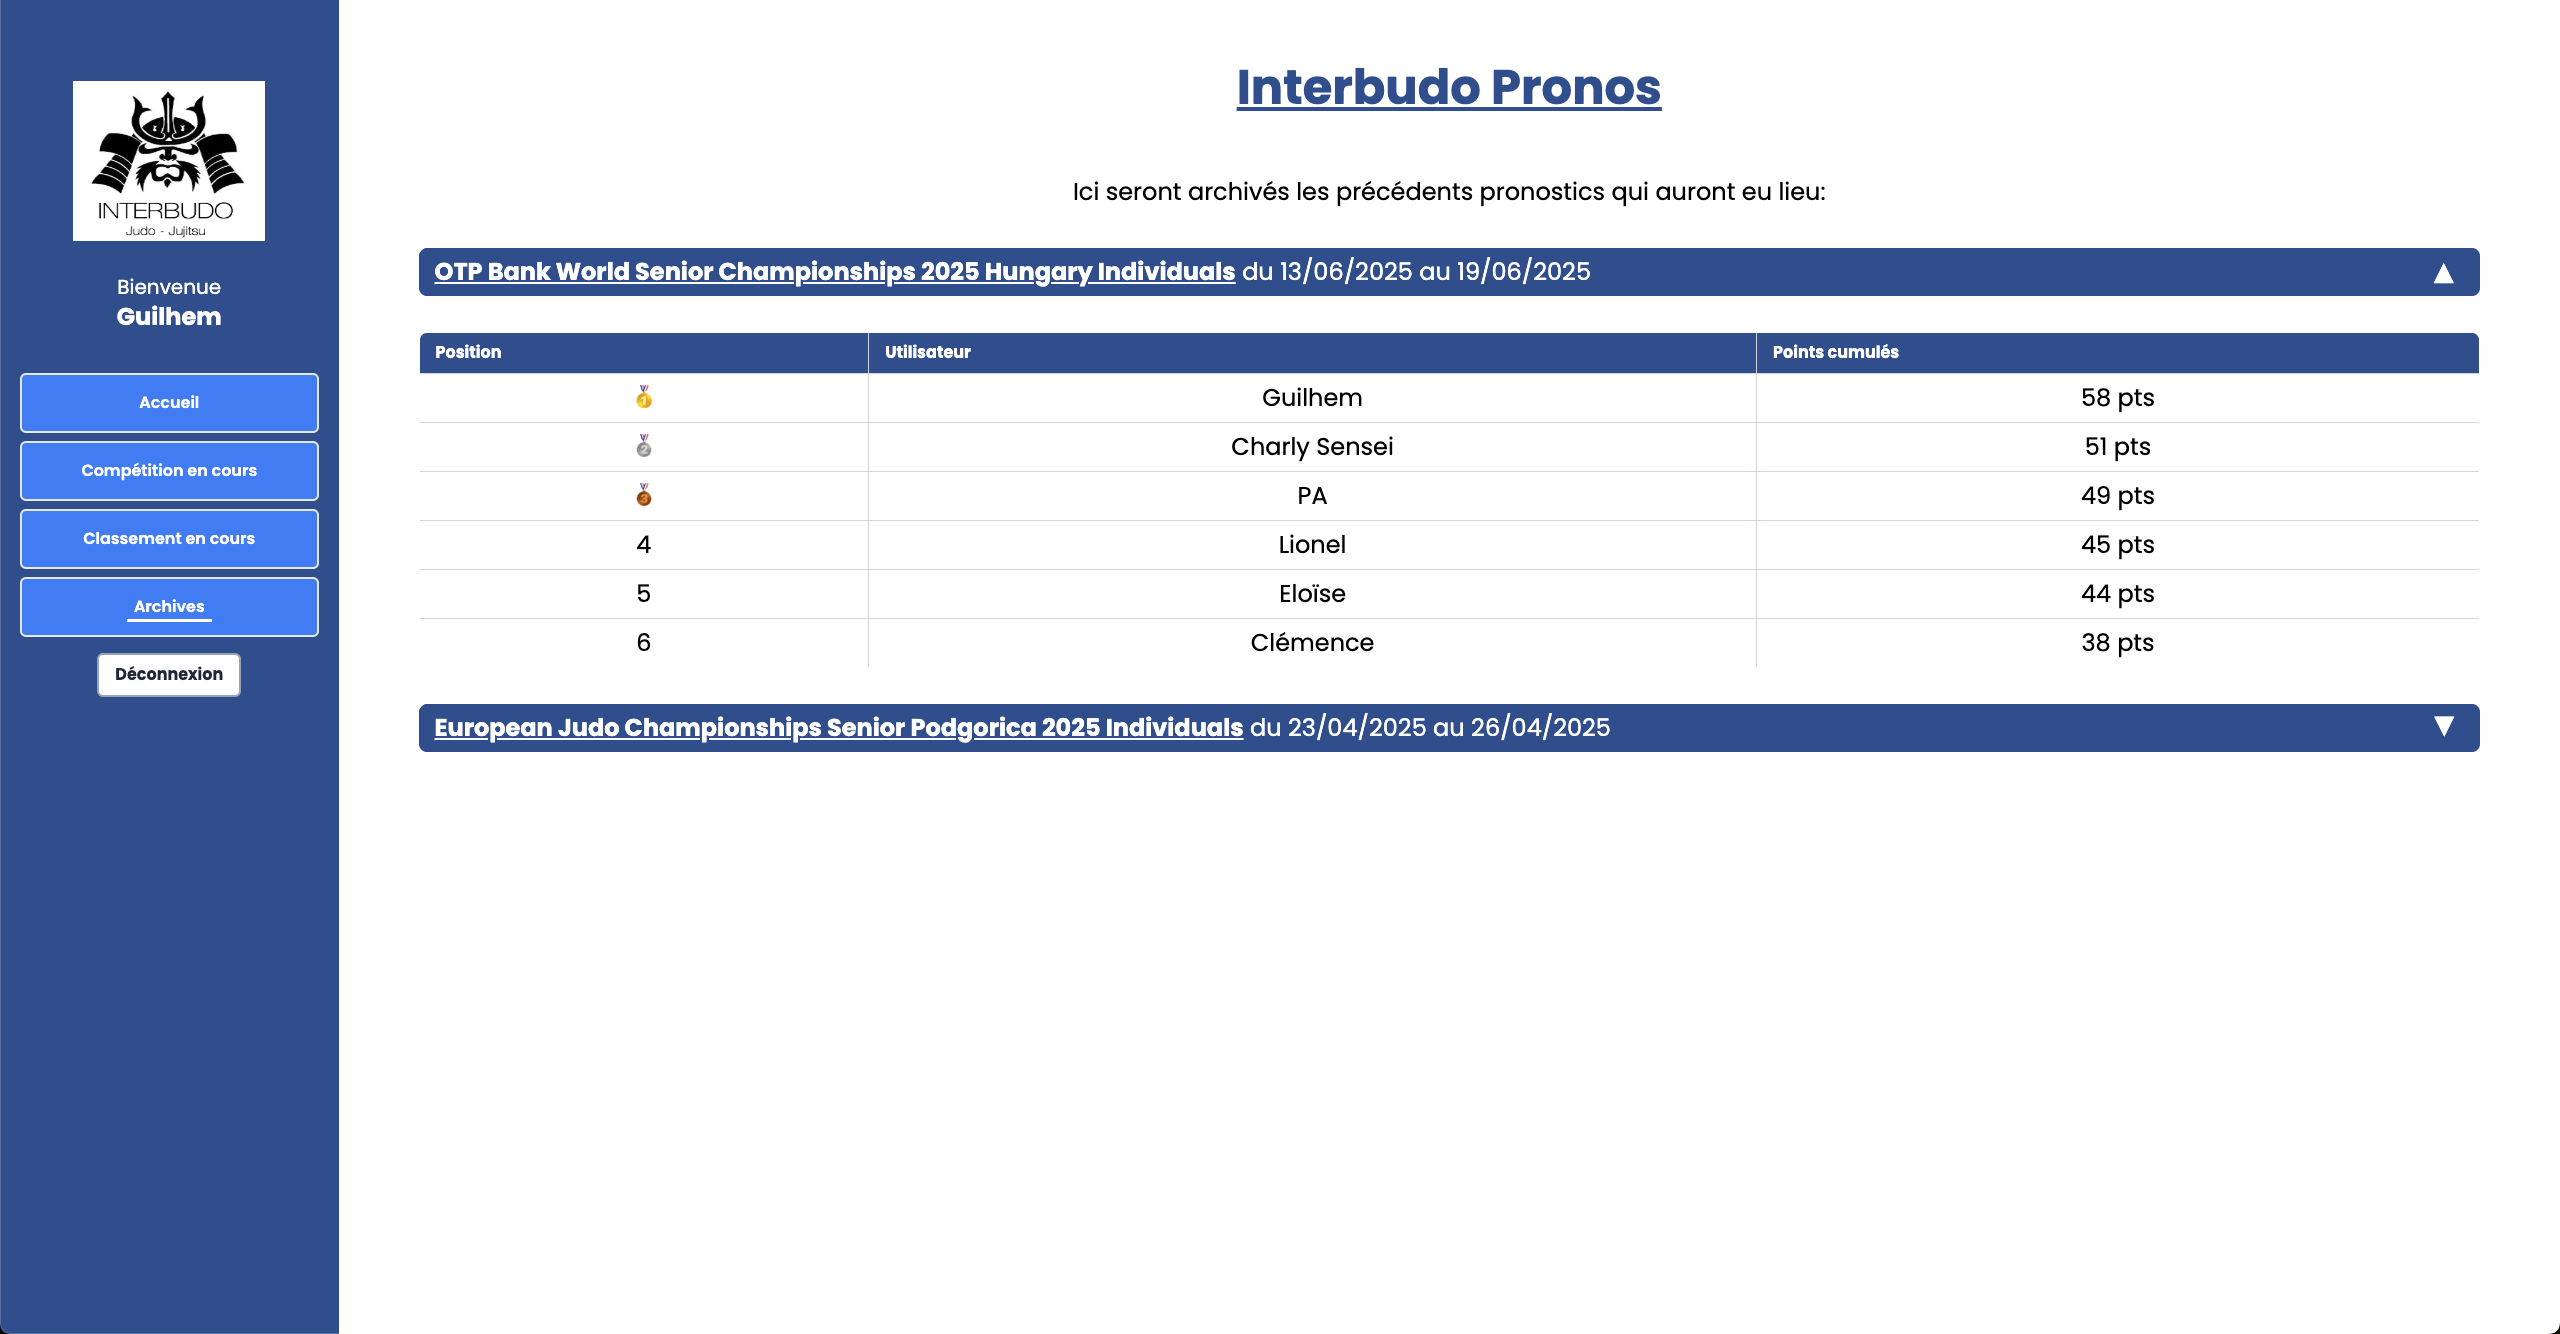
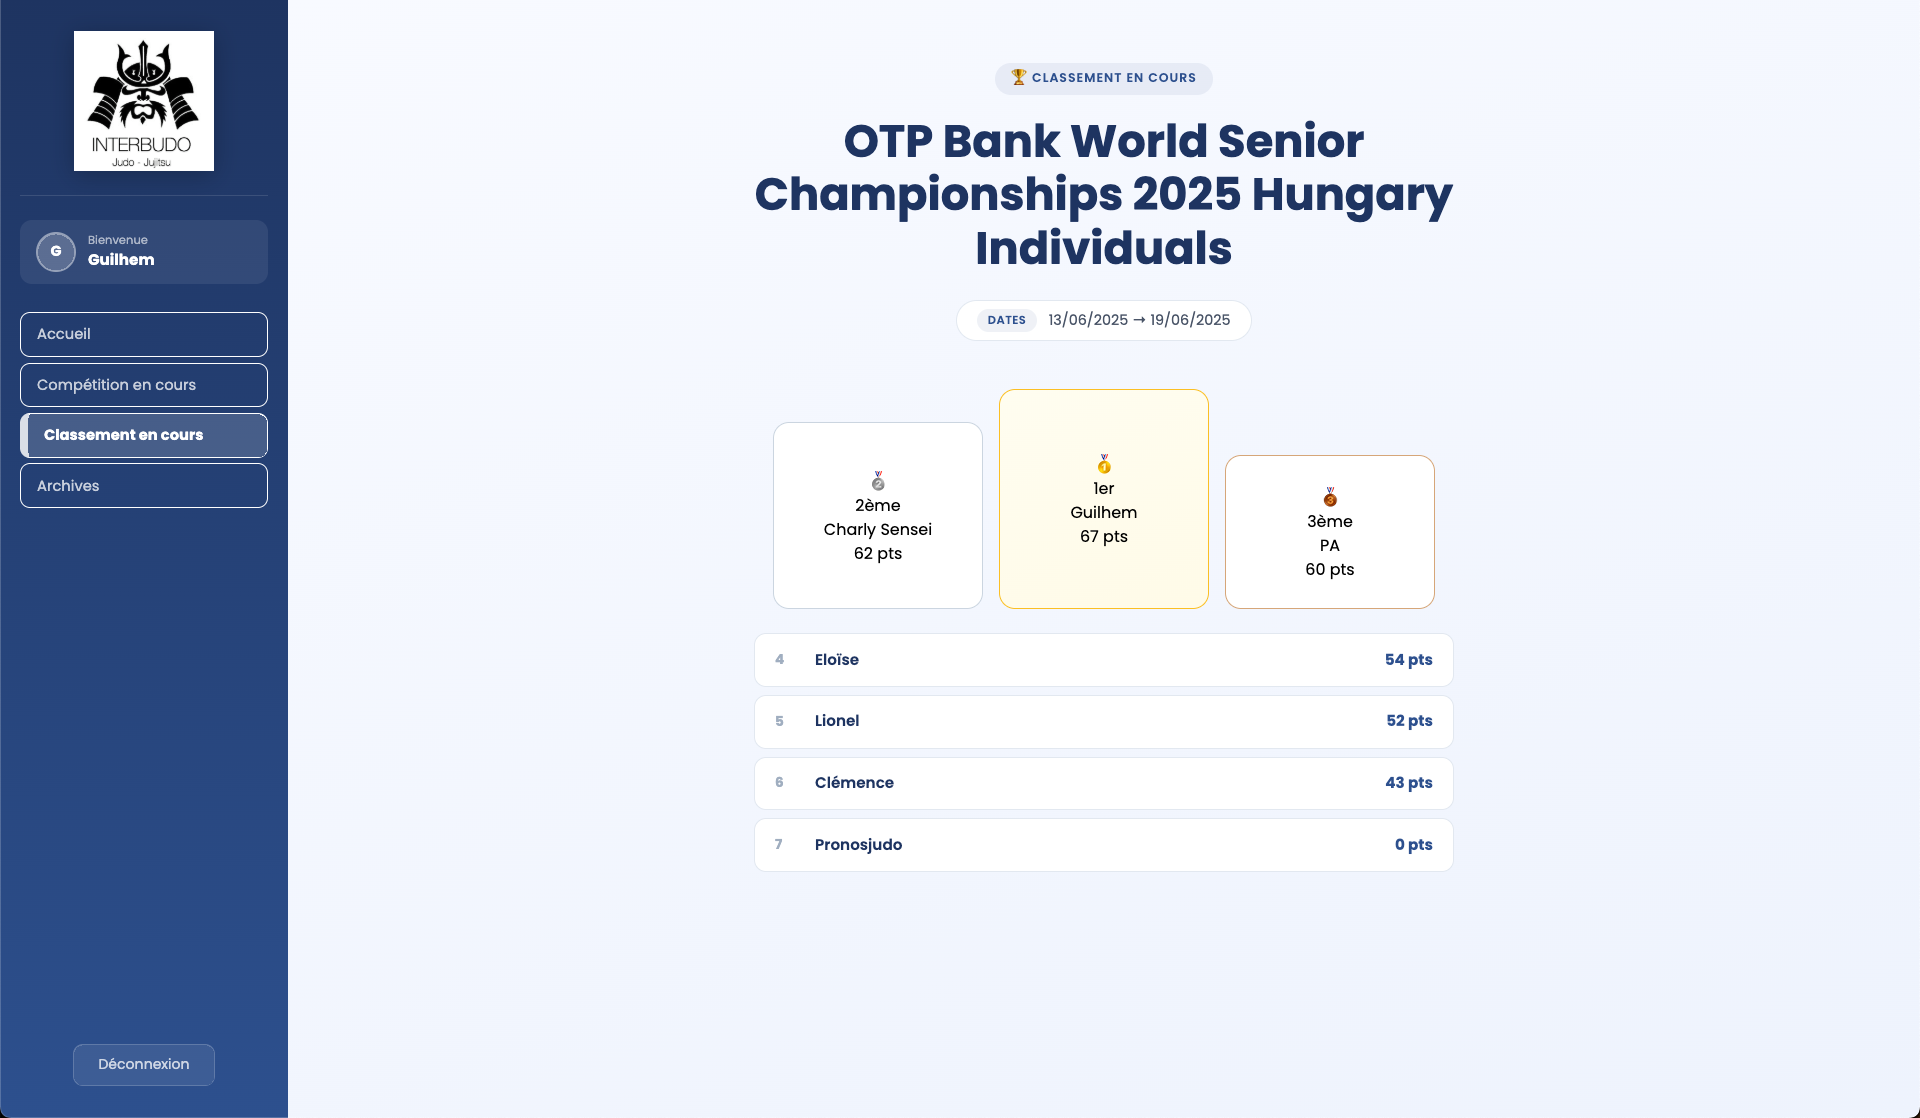
update thumbnails Pronos Judo

diff --git a/src/pages/ProjectDetail.jsx b/src/pages/ProjectDetail.jsx
@@ -3,6 +3,7 @@ import { useParams, useNavigate } from "react-router-dom";
 import pronosJudo1 from "../assets/Thumbnails/PronosJudo1.png";
 import pronosJudo2 from "../assets/Thumbnails/PronosJudo2.png";
 import pronosJudo3 from "../assets/Thumbnails/PronosJudo3.png";
+import pronosJudo4 from "../assets/Thumbnails/PronosJudo4.png";
 import interbudo1 from "../assets/Thumbnails/Interbudo1.png";
 import interbudo2 from "../assets/Thumbnails/Interbudo2.png";
 import interbudo3 from "../assets/Thumbnails/Interbudo3.png";
@@ -19,7 +20,7 @@ const projectsData = {
     ],
     technologies: ["VueJS", "JavaScript", "NodeJS", "API REST", "Tailwind CSS"],
     link: "https://pronos-judo.onrender.com/",
-    screenshots: [pronosJudo1, pronosJudo2, pronosJudo3],
+    screenshots: [pronosJudo1, pronosJudo2, pronosJudo3, pronosJudo4],
   },
   interbudo: {
     title: "Site du Club de Judo - Interbudo",
